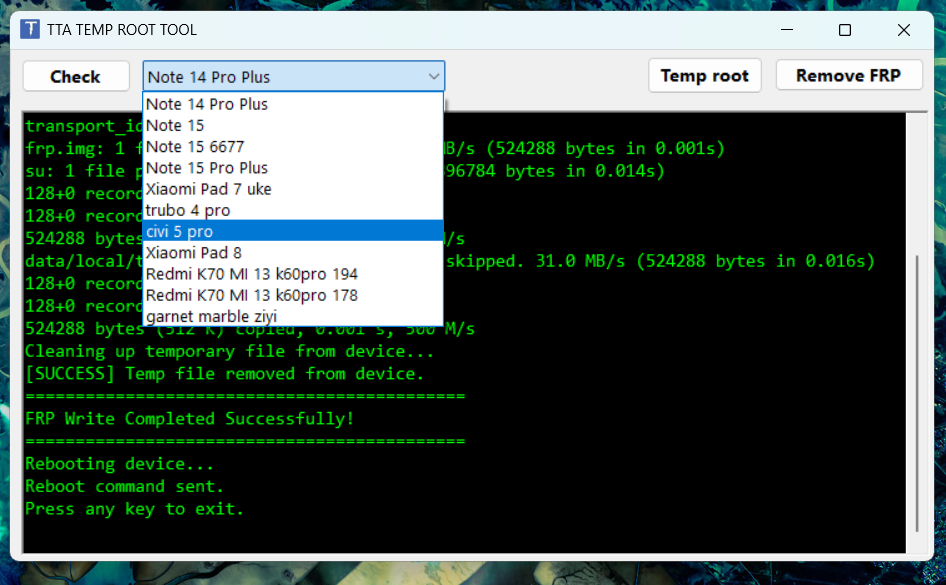
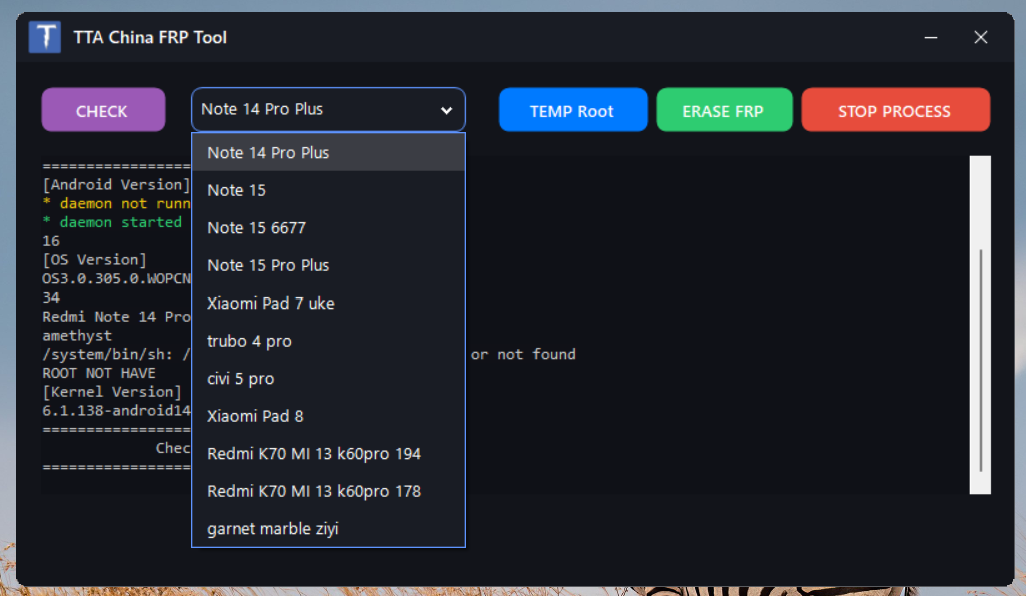
က

diff --git a/tta_china_frp/index.html b/tta_china_frp/index.html
@@ -446,7 +446,7 @@
 
             Xiaomi / Redmi China Device များအတွက်
             TTA TEMP ROOT & FRP Tool ကို
-            Download ရယူနိုင်ပါသည်။
+            Download ရယူနိုင်ပါသည်။ လက်ရှိမှာပုံထဲက Model များသာပါပါဦးမယ်။
 
         </p>
 
